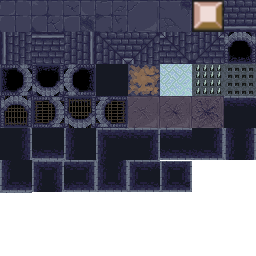
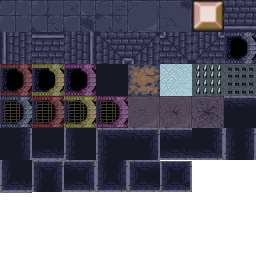
Finished doors rework.

Changed region(s): [[0.0, 0.25, 0.5, 0.5], [0.875, 0.125, 1.0, 0.25]]

diff --git a/src/level.c b/src/level.c
@@ -401,7 +401,7 @@ Level level_generate(unsigned int seed, int rank)
             }
 
             if(room->type == ROOM_TYPE_BOSS)
-                room->color = COLOR(100,100,200);
+                room->color = COLOR(200,100,100);
             else if(room->type == ROOM_TYPE_TREASURE)
                 room->color = COLOR(200,200,100);
             else if(room->type == ROOM_TYPE_SHRINE)
@@ -409,7 +409,7 @@ Level level_generate(unsigned int seed, int rank)
             else if(room->type == ROOM_TYPE_SHOP)
                 room->color = COLOR(100,200,200);
             else if(room->type == ROOM_TYPE_MONSTER)
-                room->color = COLOR(200,100,100);
+                room->color = COLOR(100,100,200);
             else
                 room->color = COLOR(200,200,200);
 
@@ -2126,17 +2126,6 @@ void level_draw_room(Room* room, RoomFileData* room_data, float xoffset, float y
         gfx_sprite_batch_add(dungeon_image, SPRITE_TILE_WALL_CORNER_DL, r.x,r.y+(ROOM_TILE_SIZE_Y+1)*h, color, false, scale, 0.0, 1.0, false, false, false);
     }
 
-
-    uint8_t door_sprites[4] = {SPRITE_TILE_DOOR_RIGHT, SPRITE_TILE_DOOR_UP, SPRITE_TILE_DOOR_LEFT, SPRITE_TILE_DOOR_DOWN};
-
-    if(room->doors_locked)
-    {
-        door_sprites[0] = SPRITE_TILE_DOOR_RIGHT_CLOSED;
-        door_sprites[1] = SPRITE_TILE_DOOR_UP_CLOSED;
-        door_sprites[2] = SPRITE_TILE_DOOR_LEFT_CLOSED;
-        door_sprites[3] = SPRITE_TILE_DOOR_DOWN_CLOSED;
-    }
-
     // center of the room
     float halfw = TILE_SIZE*(ROOM_TILE_SIZE_X+1)/2.0 * scale;
     float halfh = TILE_SIZE*(ROOM_TILE_SIZE_Y+1)/2.0 * scale;
@@ -2152,28 +2141,23 @@ void level_draw_room(Room* room, RoomFileData* room_data, float xoffset, float y
 
         uint32_t dcolor = color;
 
+        uint8_t door_sprite = room->doors_locked ? SPRITE_TILE_DOOR_CLOSED : SPRITE_TILE_DOOR;
+
         Room* aroom = level_get_room(&level, c.x+o.x, c.y+o.y);
-        if(aroom != NULL)
-        {
-            if(aroom->type == ROOM_TYPE_TREASURE)
-            {
-                dcolor = aroom->color;
-            }
-            else if(aroom->type == ROOM_TYPE_SHRINE)
-            {
-                dcolor = aroom->color;
-            }
-            else if(aroom->type == ROOM_TYPE_BOSS)
-            {
-                dcolor = aroom->color;
-            }
-            // else if(aroom->type == ROOM_TYPE_SHOP)
-            //     dcolor = aroom->color;
-        }
+
+        if(aroom->type == ROOM_TYPE_BOSS)
+            door_sprite = room->doors_locked ? SPRITE_TILE_DOOR_BOSS_CLOSED : SPRITE_TILE_DOOR_BOSS;
+        else if(aroom->type == ROOM_TYPE_TREASURE)
+            door_sprite = room->doors_locked ? SPRITE_TILE_DOOR_TREASURE_CLOSED : SPRITE_TILE_DOOR_TREASURE;
+        else if(aroom->type == ROOM_TYPE_SHRINE)
+            door_sprite = room->doors_locked ? SPRITE_TILE_DOOR_SHRINE_CLOSED : SPRITE_TILE_DOOR_SHRINE;
+
         float _x = centerx + halfw*o.x;
         float _y = centery + halfh*o.y;
 
-        gfx_sprite_batch_add(dungeon_image, door_sprites[i], _x, _y, dcolor, false, scale, 0.0, 1.0, false, false, false);
+        float rotation = dir_to_angle_deg(i);
+
+        gfx_sprite_batch_add(dungeon_image, door_sprite, _x, _y, dcolor, false, scale, rotation, 1.0, false, false, false);
     }
 
     RoomFileData* rdata;

diff --git a/src/level.h b/src/level.h
@@ -89,19 +89,19 @@ typedef enum
     SPRITE_TILE_WALL_CORNER_UR,
     SPRITE_TILE_WALL_CORNER_RD,
     SPRITE_TILE_WALL_CORNER_DL,
-    SPRITE_TILE_DOOR_UP,
-    SPRITE_TILE_DOOR_RIGHT,
-    SPRITE_TILE_DOOR_DOWN,
-    SPRITE_TILE_DOOR_LEFT,
+    SPRITE_TILE_DOOR,
+    SPRITE_TILE_DOOR_BOSS,
+    SPRITE_TILE_DOOR_TREASURE,
+    SPRITE_TILE_DOOR_SHRINE,
     SPRITE_TILE_PIT,
     SPRITE_TILE_MUD,
     SPRITE_TILE_ICE,
     SPRITE_TILE_SPIKES,
     SPRITE_TILE_SPIKES_DOWN,
-    SPRITE_TILE_DOOR_UP_CLOSED,
-    SPRITE_TILE_DOOR_RIGHT_CLOSED,
-    SPRITE_TILE_DOOR_DOWN_CLOSED,
-    SPRITE_TILE_DOOR_LEFT_CLOSED,
+    SPRITE_TILE_DOOR_CLOSED,
+    SPRITE_TILE_DOOR_BOSS_CLOSED,
+    SPRITE_TILE_DOOR_TREASURE_CLOSED,
+    SPRITE_TILE_DOOR_SHRINE_CLOSED,
     SPRITE_TILE_FLOOR_BREAK1,
     SPRITE_TILE_FLOOR_BREAK2,
     SPRITE_TILE_FLOOR_BREAK3,

diff --git a/src/projectile.c b/src/projectile.c
@@ -837,7 +837,7 @@ void projectile_handle_collision(Projectile* proj, Entity* e)
     {
         CreatureSegment* cs = (CreatureSegment*)e->ptr;
         Creature* c = creature_get_by_id(cs->creature_id);
-        printf("checking %p\n", c);
+        //printf("checking %p\n", c);
         if(!c) return;
         curr_room = cs->phys.curr_room;
         phys = &cs->phys;

diff --git a/src/room_editor.c b/src/room_editor.c
@@ -692,7 +692,7 @@ void room_editor_draw()
     {
         error |= !on_door;
 
-        int sprite = SPRITE_TILE_DOOR_UP;
+        int sprite = SPRITE_TILE_DOOR;
 
         if(door_sel == 1)
         {
